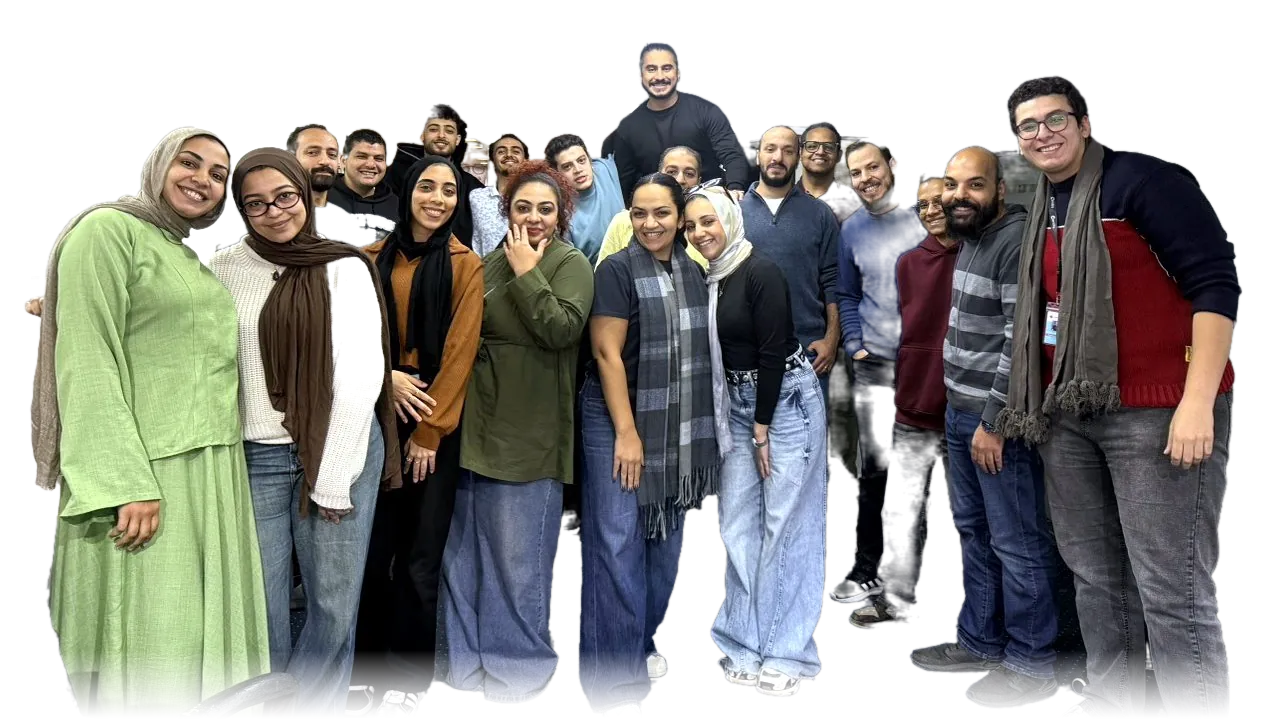
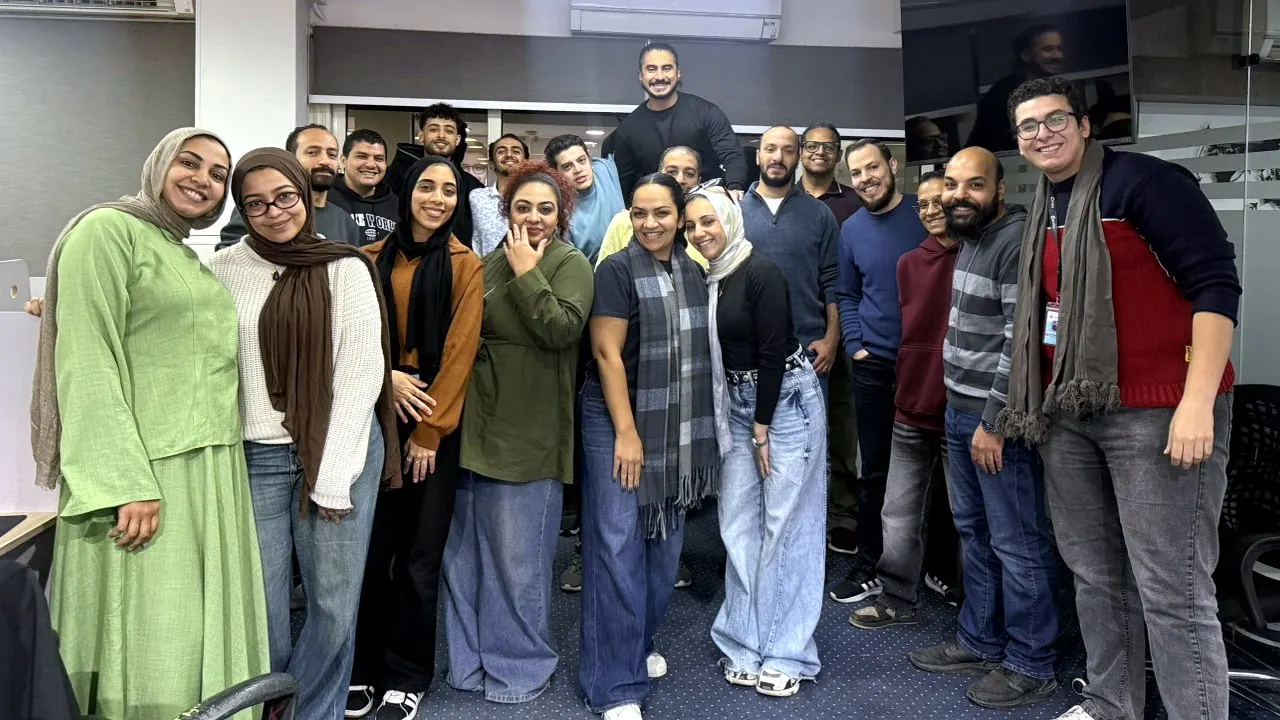
Team photo: natural photo, full-width layout with text overlay
Claude-Session: https://claude.ai/code/session_01K63jUYQAFg96QFSp3oWnoN

diff --git a/assets/app.css b/assets/app.css
@@ -388,8 +388,11 @@ a.ccard:hover{text-decoration:none;transform:translateY(-4px);box-shadow:0 22px 
 .qx{display:flex;flex-direction:column;gap:6px;padding:18px 22px 22px}.qx small{font-size:13px;font-weight:700;color:var(--plum);text-transform:uppercase;letter-spacing:.02em}.qx b{font-size:20px;letter-spacing:-.02em;line-height:1.25}
 .qcard.done small{color:var(--ok)}
 /* team photo band (home) */
-.team{display:grid;grid-template-columns:minmax(0,1.35fr) minmax(0,1fr);gap:48px;align-items:center;background:var(--gray);border-radius:28px;padding:20px 48px 20px 20px}
-.team img{width:100%;height:auto;aspect-ratio:16/9;object-fit:contain;display:block}
-.team .headline{margin-bottom:10px}.team .sub{margin:0;font-size:clamp(17px,1.8vw,20px)}
-@media (max-width:833px){.team{grid-template-columns:1fr;gap:22px;padding:14px 14px 26px;border-radius:24px}.team .tx{padding:0 10px}}
+.team{position:relative;border-radius:28px;overflow:hidden;background:var(--plum-d);box-shadow:0 30px 70px -30px rgba(43,14,44,.55)}
+.team img{width:100%;height:auto;aspect-ratio:16/9;object-fit:cover;display:block}
+.team .tx{position:absolute;left:0;right:0;bottom:0;padding:120px 44px 36px;background:linear-gradient(180deg,rgba(43,14,44,0) 0%,rgba(43,14,44,.72) 45%,rgba(43,14,44,.92) 100%);color:#fff}
+.team .eyebrow{color:#E6B84A;margin-bottom:6px}
+.team .headline{color:#fff;margin:0 0 8px}
+.team .sub{color:rgba(255,255,255,.82);margin:0;max-width:46ch;font-size:clamp(17px,1.8vw,20px)}
 .band.teamb{padding-bottom:56px}
+@media (max-width:833px){.team{border-radius:22px}.team .tx{position:static;padding:22px 22px 26px;background:var(--plum-d)}}

diff --git a/index.html b/index.html
@@ -13,7 +13,7 @@
 <link rel="icon" href="img/kalam-mark.png">
 <link rel="preconnect" href="https://fonts.googleapis.com"><link rel="preconnect" href="https://fonts.gstatic.com" crossorigin>
 <link href="https://fonts.googleapis.com/css2?family=Inter:opsz,wght@14..32,400;14..32,500;14..32,600;14..32,700&display=swap" rel="stylesheet">
-<link rel="stylesheet" href="assets/app.css?v=2c4929c0">
+<link rel="stylesheet" href="assets/app.css?v=650f7022">
 </head>
 <body>
 <a class="skip" href="#app" id="skip">Skip to main content</a>
@@ -26,6 +26,6 @@
 <main id="app"><p class="loading">Loading the Academy…</p><noscript><p class="loading">Kalam CX Academy needs JavaScript turned on.</p></noscript></main>
 <footer><div class="in"><p id="foot" hidden></p><div class="fl"><img src="img/kalam-logo.png" alt="Kalam CX"><span>Kalam CX · Learning &amp; Development · 2026</span></div></div></footer>
 <div id="ytm" class="ytm" hidden><div class="ytbox" role="dialog" aria-modal="true" aria-labelledby="ytt"><div class="ytframe"></div><div class="ytbar"><div><small id="ytc"></small><b id="ytt"></b></div><div class="ytact"><a id="ytl" class="link" target="_blank" rel="noopener">Open on YouTube</a><button id="ytx" class="pill">Close</button></div></div></div></div>
-<script src="assets/app.js?v=2c4929c0" defer></script>
+<script src="assets/app.js?v=650f7022" defer></script>
 </body>
 </html>
